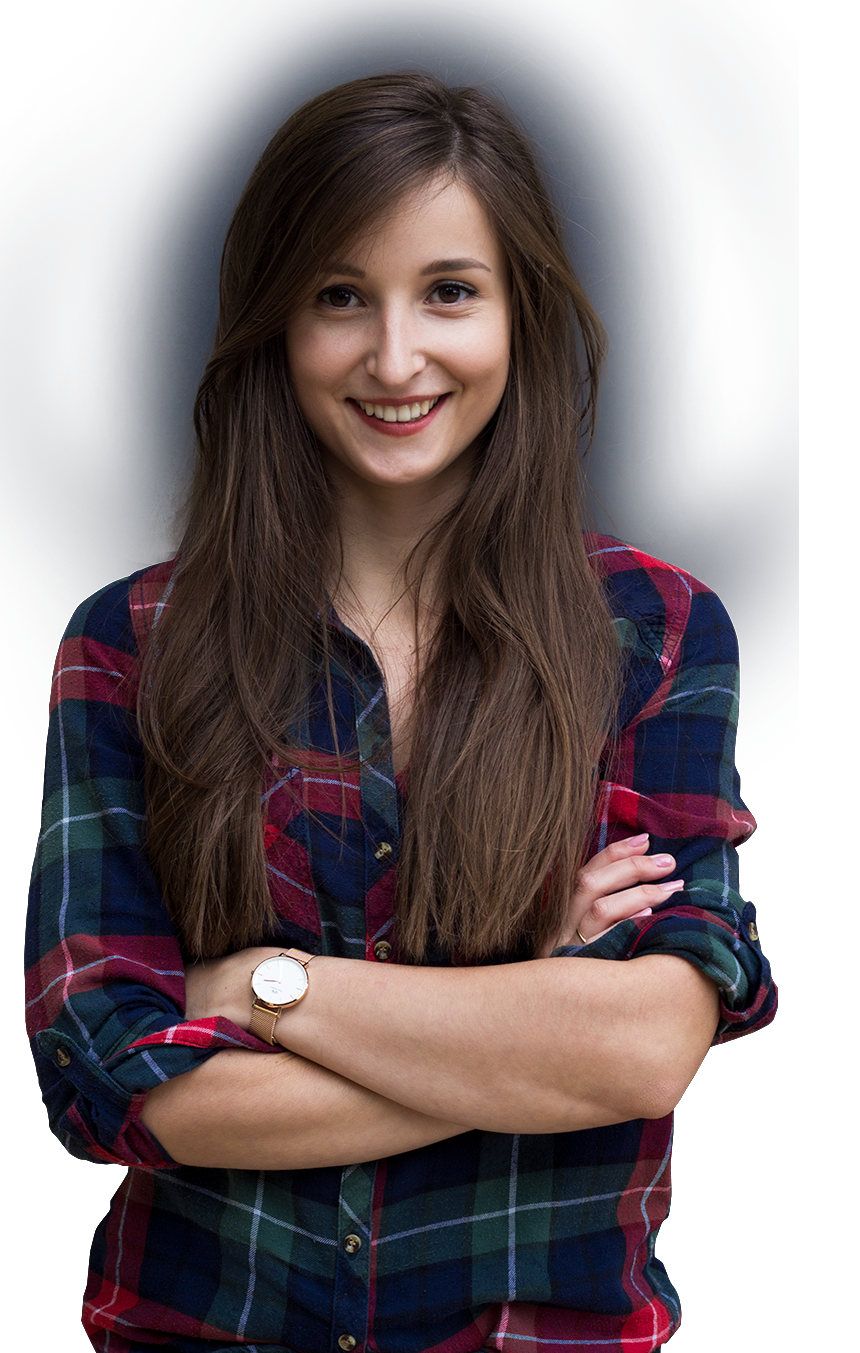
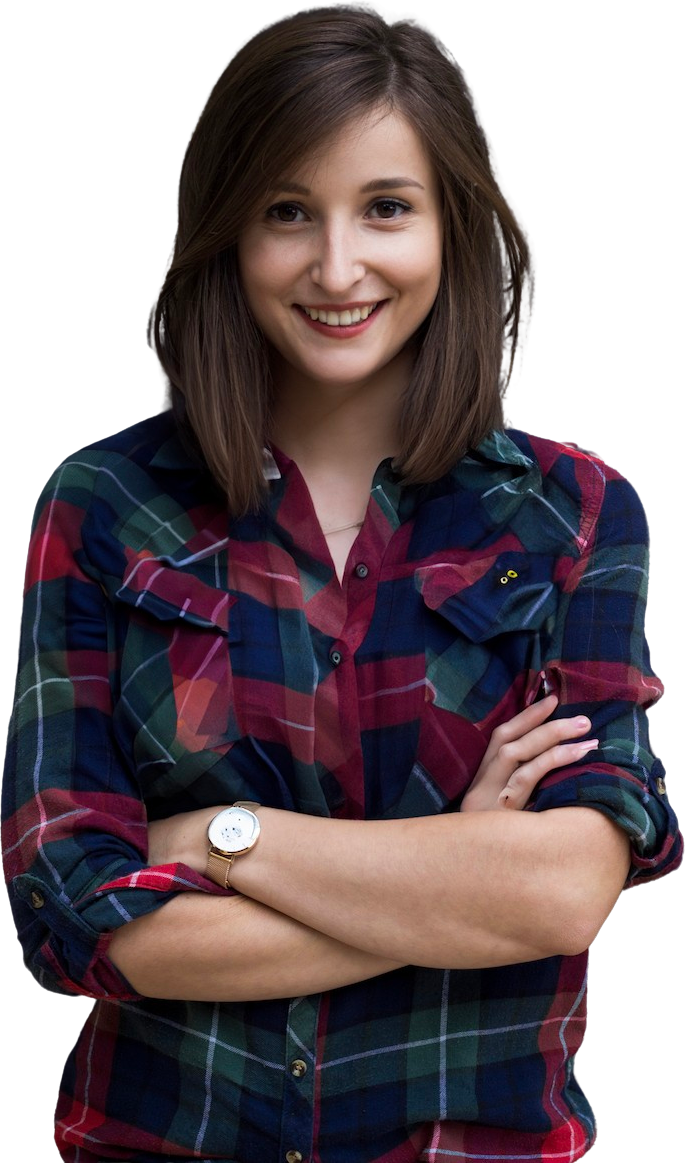
about me update

diff --git a/src/app/components/about/Hero/AboutHero.js b/src/app/components/about/Hero/AboutHero.js
@@ -4,6 +4,7 @@ import StyledButton from "../../common/button/StyledButton";
 import {
   HeroSection,
   Container,
+  ContainerWrapper,
   ImageContainer,
   LeftContent,
   FirstSection,
@@ -33,40 +34,42 @@ const AboutHero = ({ isBioVisible, setIsBioVisible }) => {
 
   return (
     <HeroSection className="scrollHero">
-      <ImageContainer>
-        <Image
-          src="/assets/about-hero-poster.png"
-          width="416"
-          height="600"
-          alt="my avatar"
-        />
-      </ImageContainer>
       <Container className="container">
-        <LeftContent>
-          <FirstSection>
-            <FirstSectionTtile>{abouthero.title}</FirstSectionTtile>
-            <FirstSectionParagraph>
-              {abouthero.description}
-            </FirstSectionParagraph>
-          </FirstSection>
-          <List>
-            {abouthero.list.map((item, index) => (
-              <ListItem
-                key={index}
-                dangerouslySetInnerHTML={{
-                  __html: convertMarkdownLinksToHTML(item),
-                }}
-              />
-            ))}
-          </List>
-          <ButtonMore
-            className={`button-transition ${isBioVisible ? "hide" : "show"}`}
-          >
-            <StyledButton onClick={toggleBio} color="light">
-              Show full bio
-            </StyledButton>
-          </ButtonMore>
-        </LeftContent>
+        <ContainerWrapper>
+          <LeftContent>
+            <FirstSection>
+              <FirstSectionTtile>{abouthero.title}</FirstSectionTtile>
+              <FirstSectionParagraph>
+                {abouthero.description}
+              </FirstSectionParagraph>
+            </FirstSection>
+            <List>
+              {abouthero.list.map((item, index) => (
+                <ListItem
+                  key={index}
+                  dangerouslySetInnerHTML={{
+                    __html: convertMarkdownLinksToHTML(item),
+                  }}
+                />
+              ))}
+            </List>
+            <ButtonMore
+              className={`button-transition ${isBioVisible ? "hide" : "show"}`}
+            >
+              <StyledButton onClick={toggleBio} color="light">
+                Show full bio
+              </StyledButton>
+            </ButtonMore>
+          </LeftContent>
+          <ImageContainer>
+            <img
+              src="/assets/about-hero-poster.png"
+              width="416"
+              height="600"
+              alt="my avatar"
+            />
+          </ImageContainer>
+        </ContainerWrapper>
       </Container>
     </HeroSection>
   );

diff --git a/src/app/components/about/Hero/AboutHero.styles.js b/src/app/components/about/Hero/AboutHero.styles.js
@@ -13,14 +13,15 @@ export const Container = styled.div`
 `;
 
 export const ImageContainer = styled.div`
+  padding-top: 110px;
   position: absolute;
   top: 0;
-  right: 0;
+  right: -160px;
   height: 100%;
   z-index: 0;
 
   img {
-    object-fit: cover;
+    object-fit: contain;
     height: 100%;
     width: auto;
   }
@@ -77,6 +78,11 @@ export const FirstSection = styled.div`
     padding: 0px 32px 70px;
   }
 `;
+
+export const ContainerWrapper = styled.div`
+  position: relative;
+`;
+
 
 export const FirstSectionTtile = styled.h1`
   color: white;
